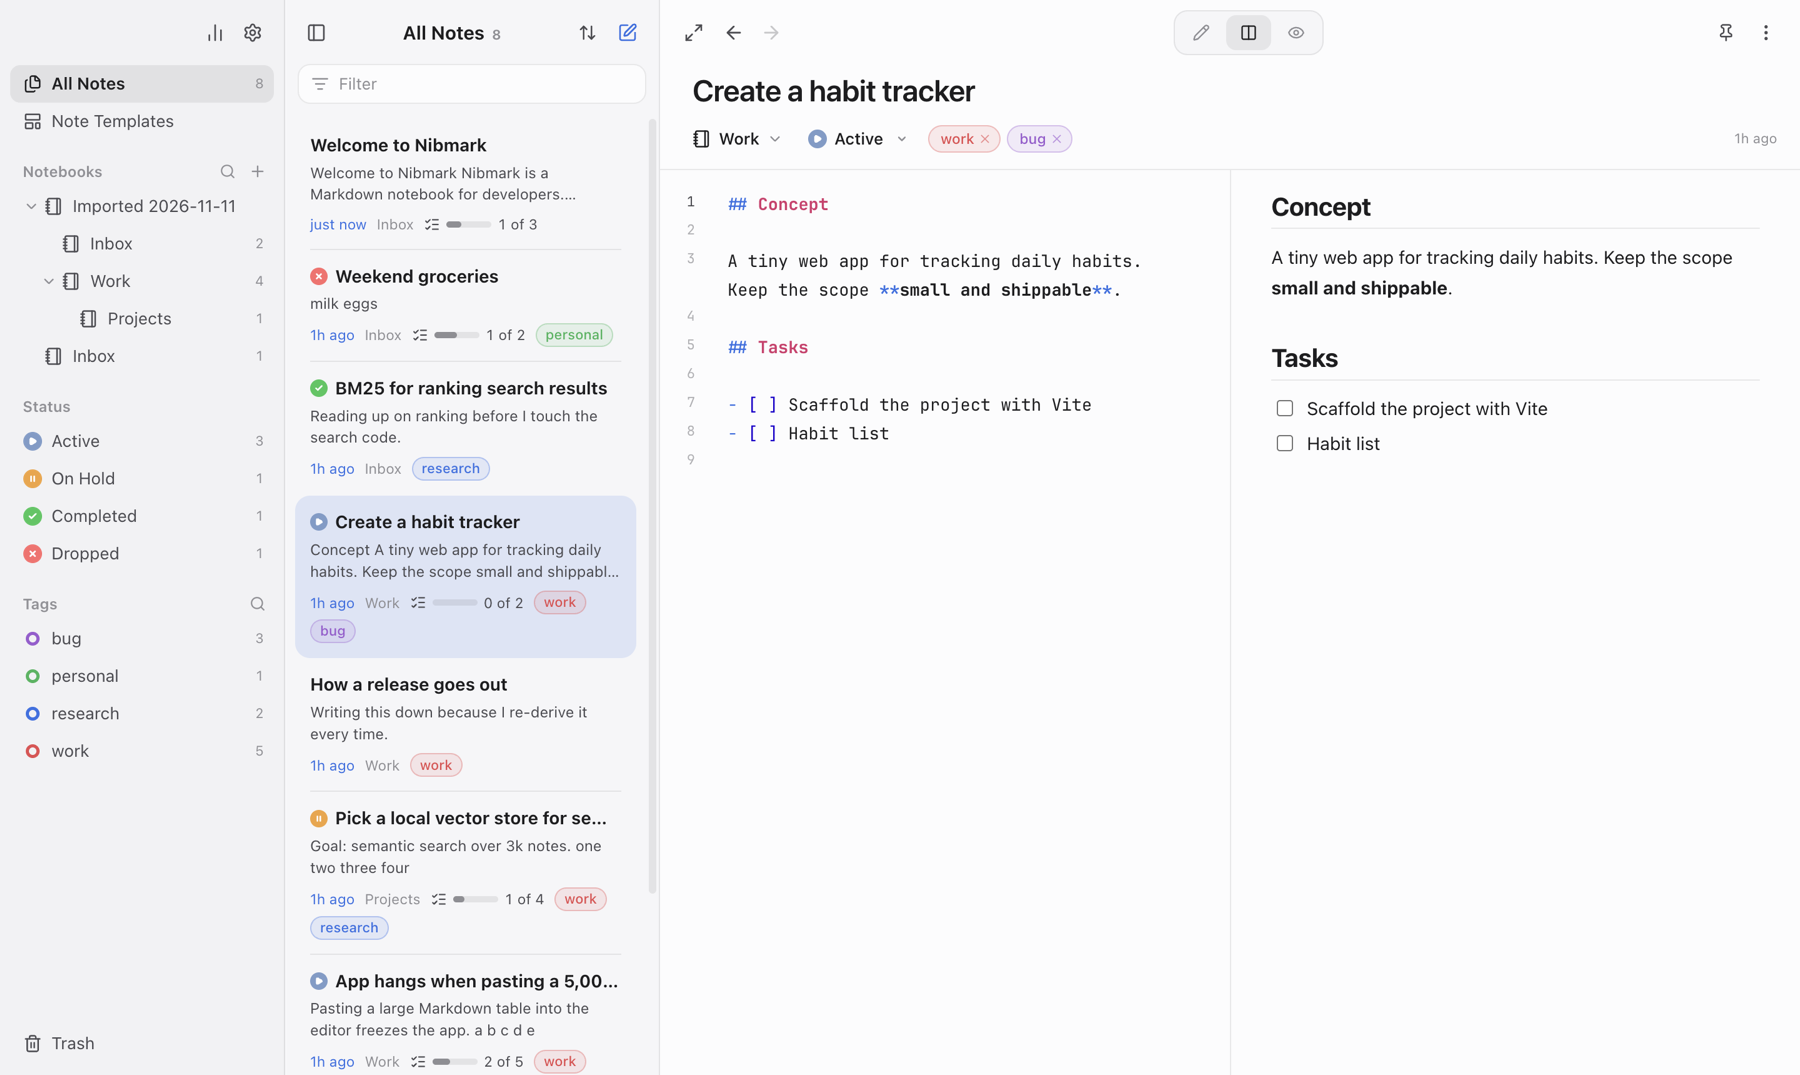
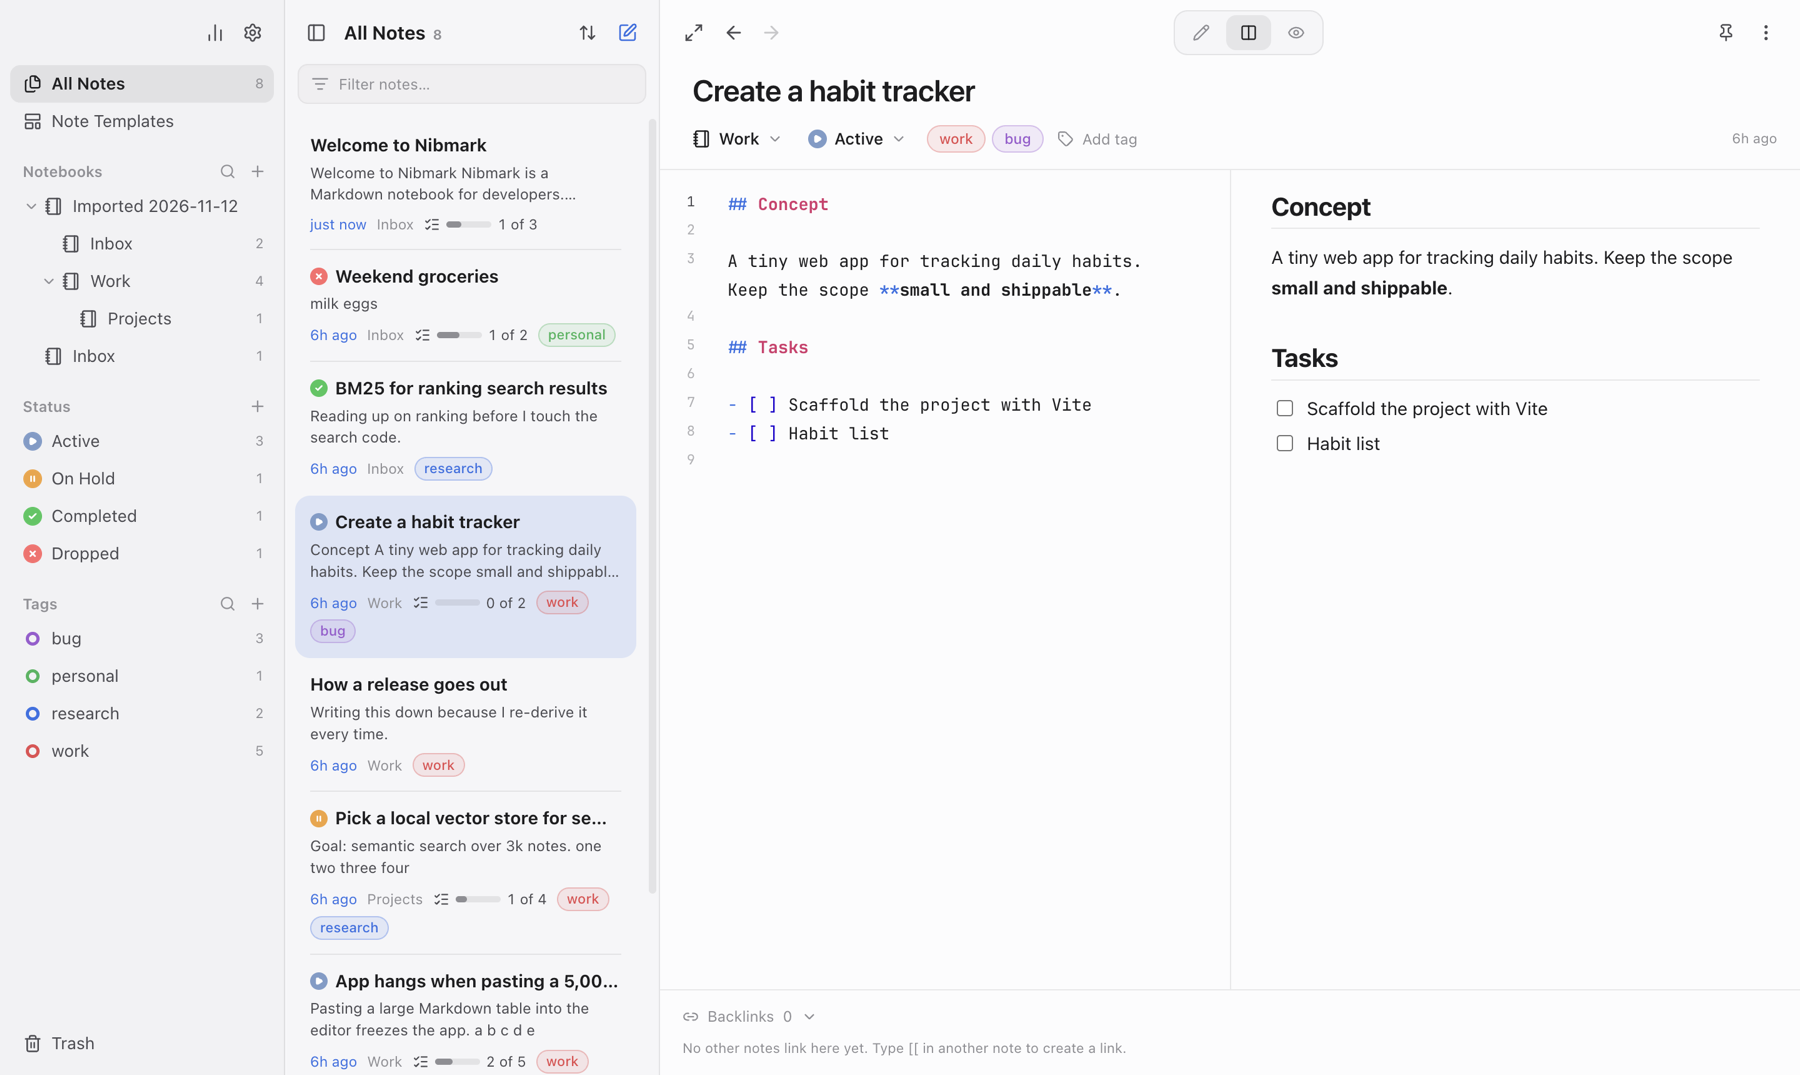
docs: update README and roadmap for 0.7 (#13)
Updates the README and roadmap for 0.7:

- Version **0.7.0** in the status line.
- **Organizing:** the new status picker (search, colored icons, create
on the spot), tag suggestions with colors and counts, click-a-tag
filtering, and sidebar editing (double-click rename, the ⋯ menu and the
edit dialog with preview, palette, custom color and icons).
- **Scripts:** adds `npm run test:desktop` and `npm run test:scroll` to
the scripts table.
- **Roadmap summary:** Phase 2 now covers 0.4–0.7.
- **`docs/ROADMAP.md`:** the progress table covers 0.7 (Phase 2 at
31/37, 84/127 overall), with the status and tag editing item ticked.
- **Screenshot:** a fresh one of the 0.7 UI, made from sample notes
only.

Docs only; no code changes.

🤖 Generated with [Claude Code](https://claude.com/claude-code)

diff --git a/README.md b/README.md
@@ -10,7 +10,7 @@
 
 Nibmark keeps your notes as plain Markdown, organized in nested notebooks, tags and statuses, and stored on your own machine. It is a desktop app built with Electron, React and CodeMirror 6.
 
-> **Status:** v0.6.0, in active development. macOS is the primary target; Windows and Linux installers are built for every release but get less testing. Sync and mobile apps are on the [roadmap](#roadmap). Download the latest build from [Releases](https://github.com/quanminhvu/nibmark/releases).
+> **Status:** v0.7.0, in active development. macOS is the primary target; Windows and Linux installers are built for every release but get less testing. Sync and mobile apps are on the [roadmap](#roadmap). Download the latest build from [Releases](https://github.com/quanminhvu/nibmark/releases).
 
 <p align="center">
   <img src="docs/screenshot.png" alt="Nibmark with the Mist theme: notebooks and tags in the sidebar, the note list with task progress, and a note in side-by-side editor and preview" />
@@ -50,7 +50,9 @@ Nibmark keeps your notes as plain Markdown, organized in nested notebooks, tags 
 **Organizing**
 
 - Nested notebooks with icons and a manual order
-- Create, rename and recolor tags; create, rename, recolor and choose icons for statuses, including the built-in statuses
+- Custom statuses alongside the built-in ones; pick a status from a searchable list with colored icons, or type a new name to create one on the spot
+- Tag suggestions show each tag's color and note count; type a new name to create a tag, and click a tag on a note to see every note with it
+- Edit tags and statuses right in the sidebar: double-click to rename, or use the ⋯ button for a dialog with a live preview, a color palette (or any custom color) and, for statuses, more than 1,500 icons
 - Drag statuses and tags into your preferred order; the order persists and is included in backups
 - Delete a status without losing content: affected notes and templates move to No status
 - Pin, duplicate, trash and restore notes; drag notes onto notebooks, statuses, tags or the Trash
@@ -123,6 +125,8 @@ Other scripts:
 | `npm run verify` | Typecheck, build and check that main/preload bundle all their dependencies |
 | `npm run pack` | Package an unpacked app into `dist/` (on macOS: `dist/mac-arm64/Nibmark.app`) |
 | `npm run test:smoke` | Launch the packaged app on a temporary profile and check that it starts |
+| `npm run test:desktop` | Drive the built app on a temporary profile through statuses, tags, ordering, backlinks and scrolling |
+| `npm run test:scroll` | Check the editor/preview scroll mapping |
 | `npm run dist` | Build installers: `.dmg`/`.zip` (macOS), `.exe` (Windows), `.AppImage` (Linux) |
 
 See [CONTRIBUTING.md](CONTRIBUTING.md) for the development workflow, CI and the release process.
@@ -199,7 +203,7 @@ docs/                     Roadmap and screenshot
 ## Roadmap
 
 - [x] **Phase 1 — Desktop app (0.1–0.3):** editor, notebooks, tags, statuses, search, backup, import and export, themes, command palette, templates, note links, Mermaid and math, attachments, version history
-- [x] **Phase 2 — A better everyday experience (0.4):** new look, Kanban boards, editor and preview improvements, tasks palette, note windows, activity view, Apple Notes and Kindle import, HTML export
+- [x] **Phase 2 — A better everyday experience (0.4–0.7):** new look, Kanban boards, editor and preview improvements, tasks palette, note windows, activity view, Apple Notes and Kindle import, HTML export, resizable panes, custom statuses, backlinks, and easier status and tag editing
 - [ ] **Phase 3 — Sync and security:** CouchDB sync, end-to-end encryption
 - [ ] **Phase 4 — Mobile, plugins and AI:** iOS and Android apps, plugin system, optional AI assistant
 - [ ] **Phase 5 — Distribution:** signed builds, accounts
